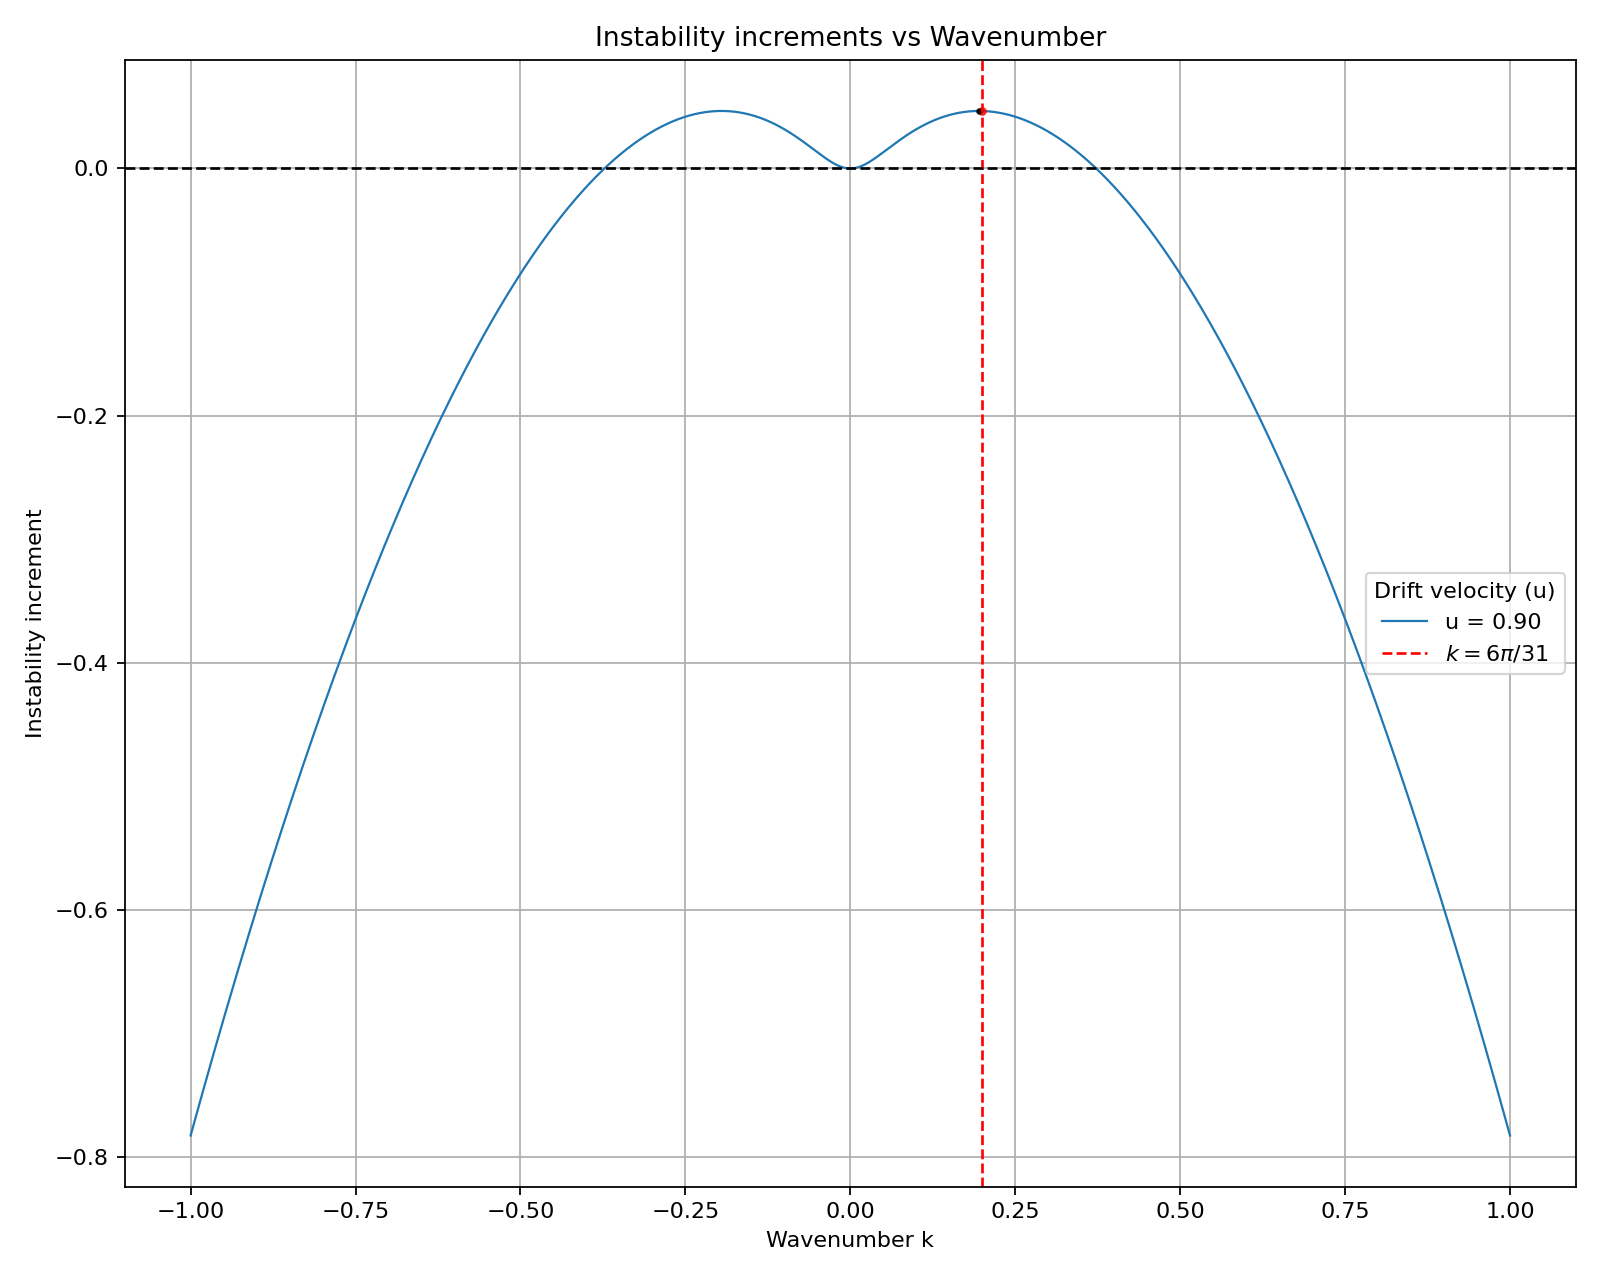
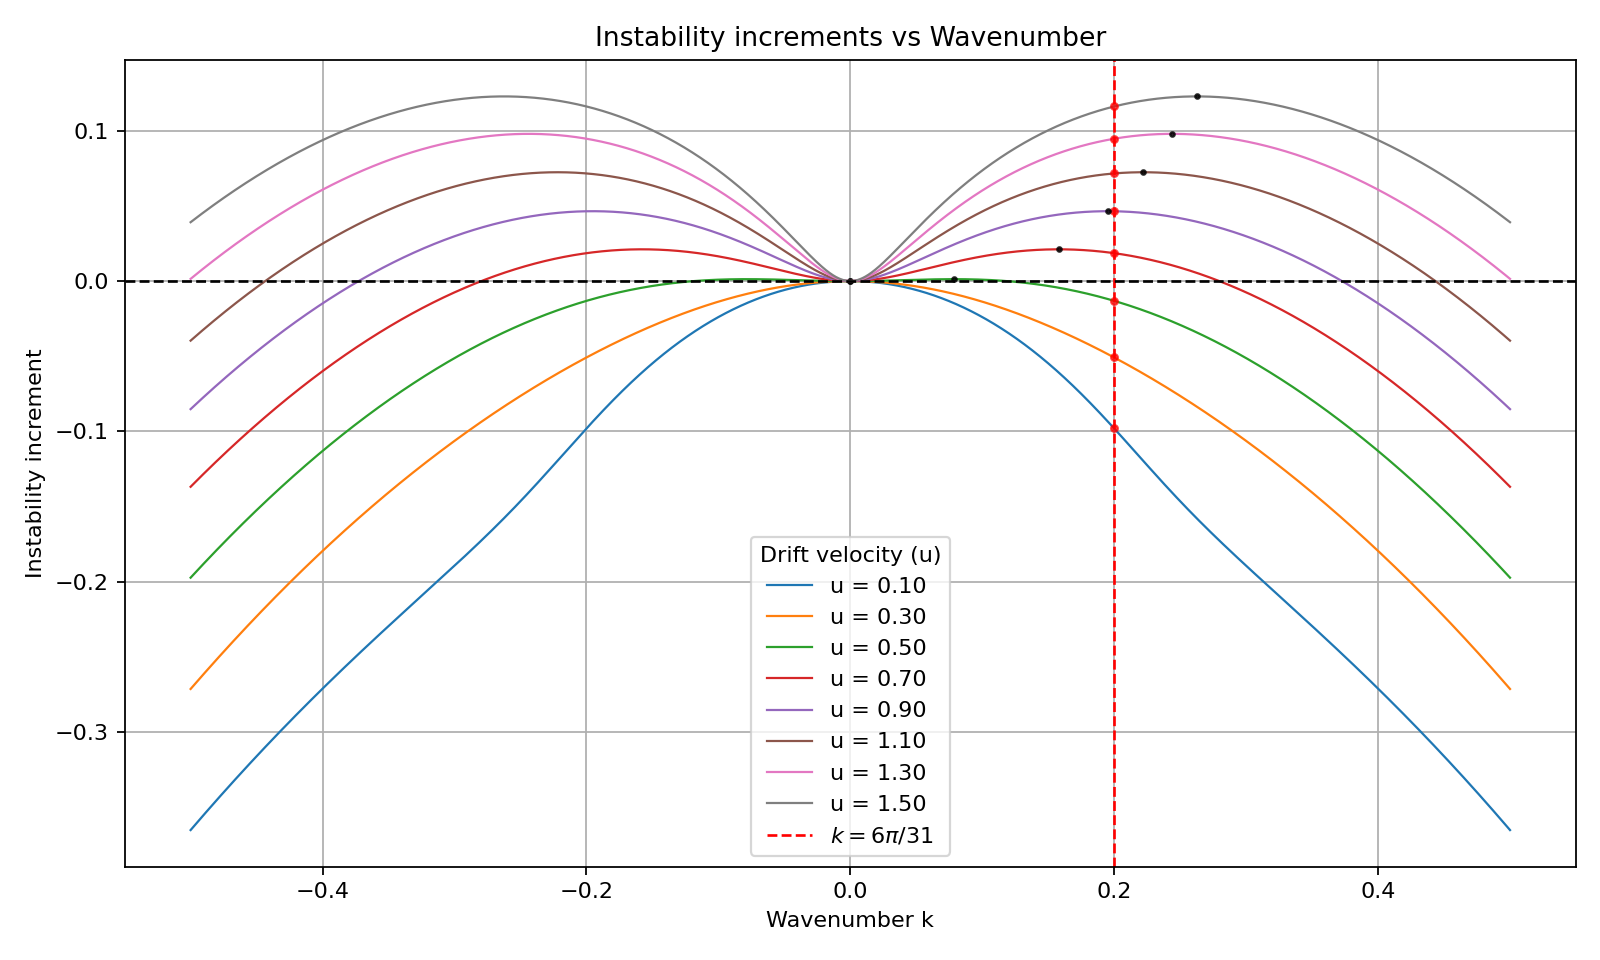
Update instability increment analysis and visualizations in `linear_instability_increment.py` and related output files
- Adjusted drift velocity range to include values from 0.1 to 1.5 for improved analysis.
- Modified wavenumber limits from -1.0 to 0.5 for better data representation.
- Updated figure size in visualizations for enhanced clarity.
- Reflected changes in the PDF and PNG outputs to align with the new parameters and improve overall presentation.

diff --git a/linear instability increment/linear_instability_increment.py b/linear instability increment/linear_instability_increment.py
@@ -7,11 +7,11 @@ eta_n = 0.2*5
 n = 1.0
 w = 0.5
 gamma0 = 2.5
-kmin = -1.0
-kmax = 1.0
+kmin = -0.5
+kmax = 0.5
 N = 20000
 Lambda = -(1 / w + 1 / n) * np.exp(-n / w)
-fig, ax = plt.subplots(figsize=(10, 8))
+fig, ax = plt.subplots(figsize=(10, 6))
 
 u_star = 0.37671861
 
